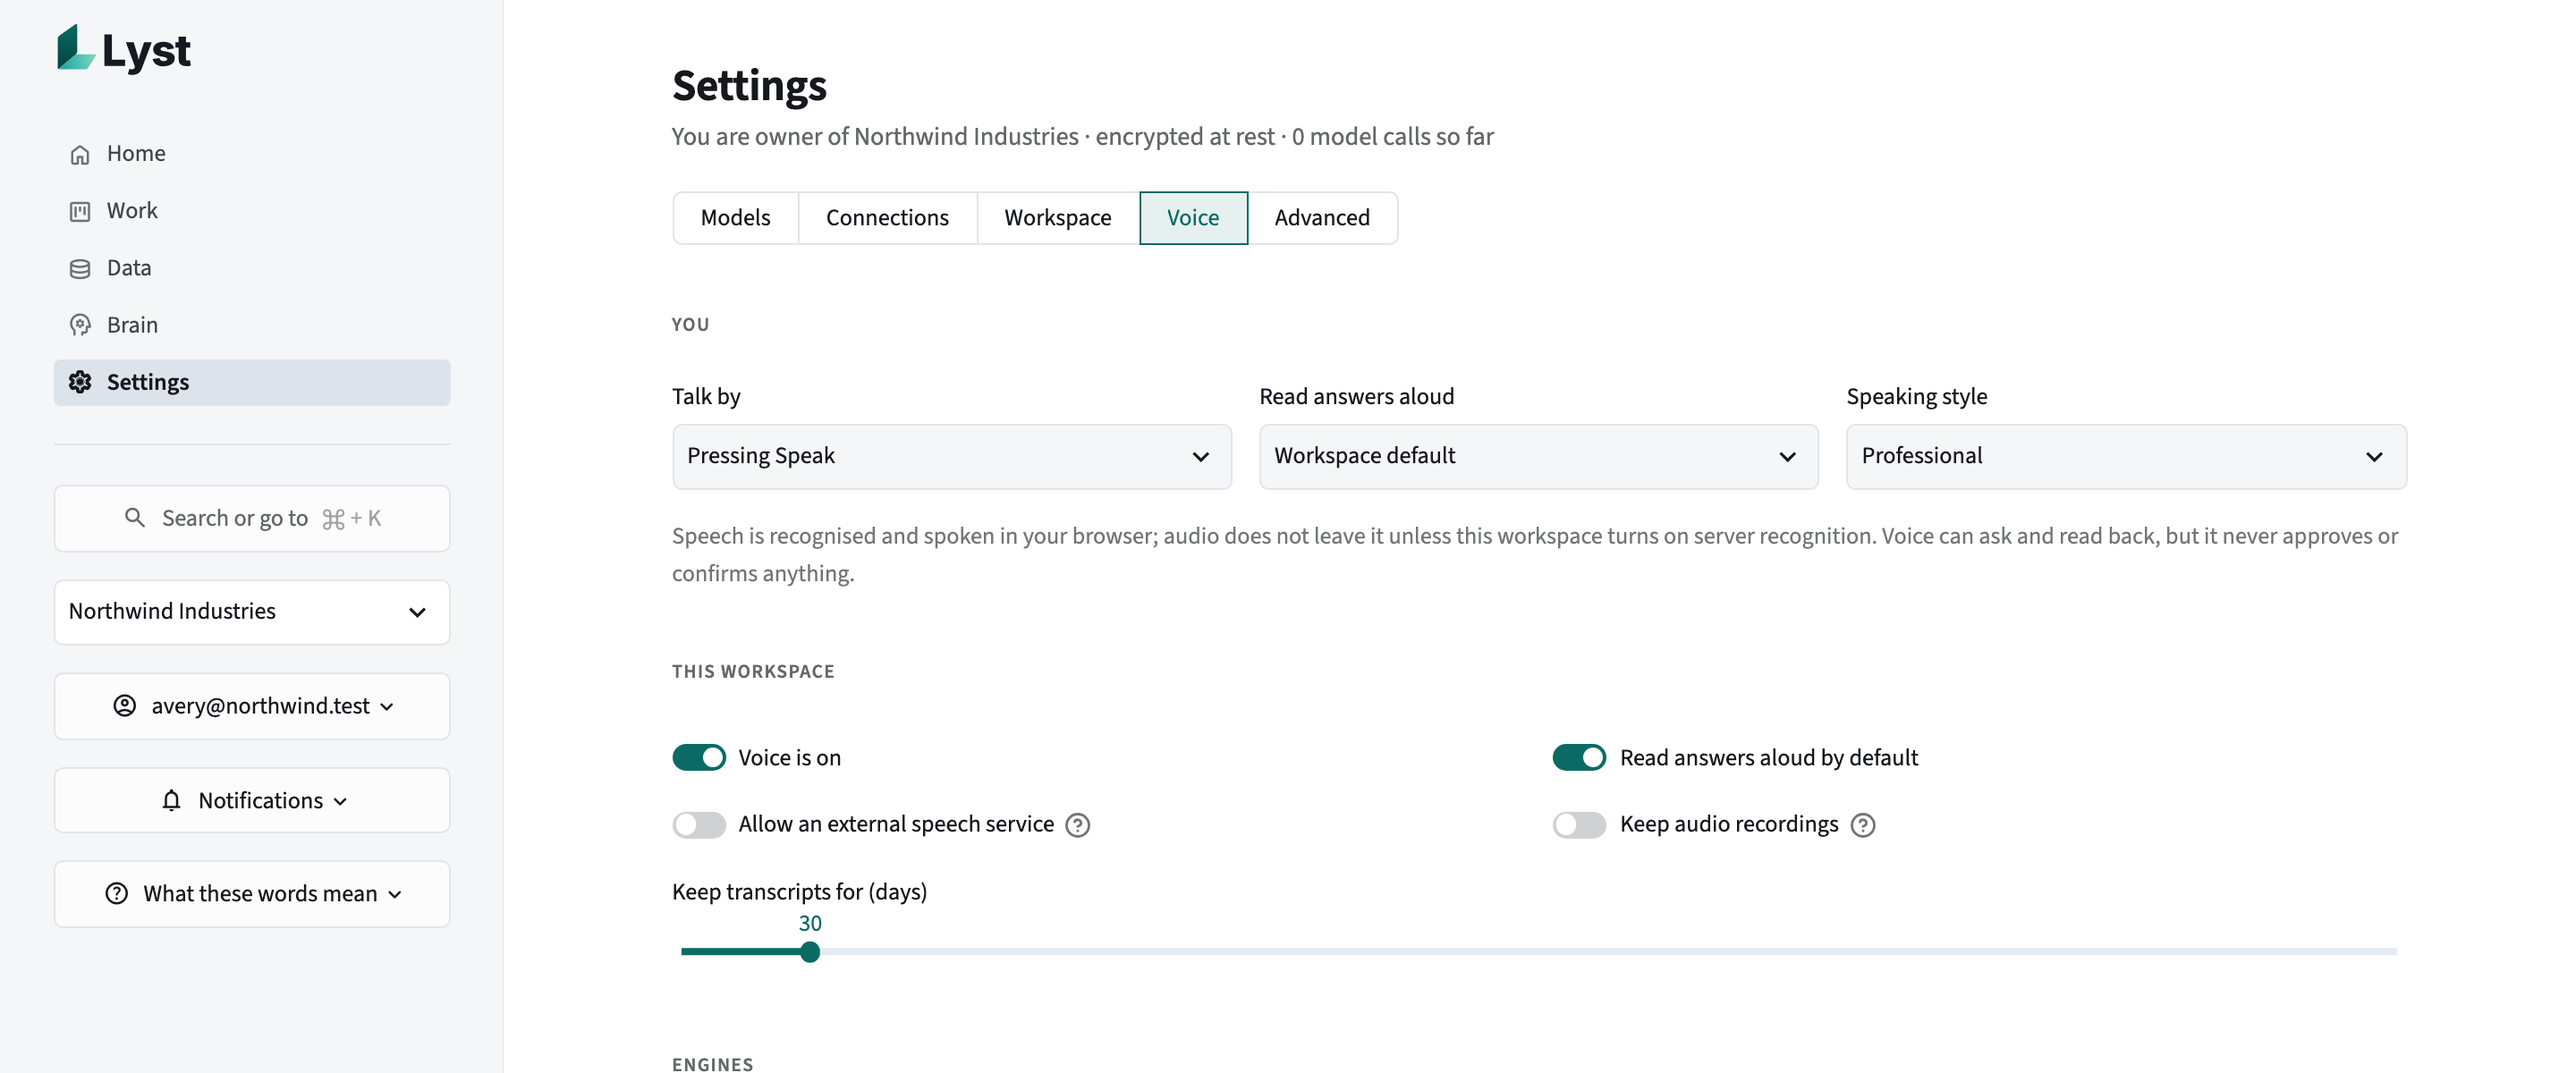
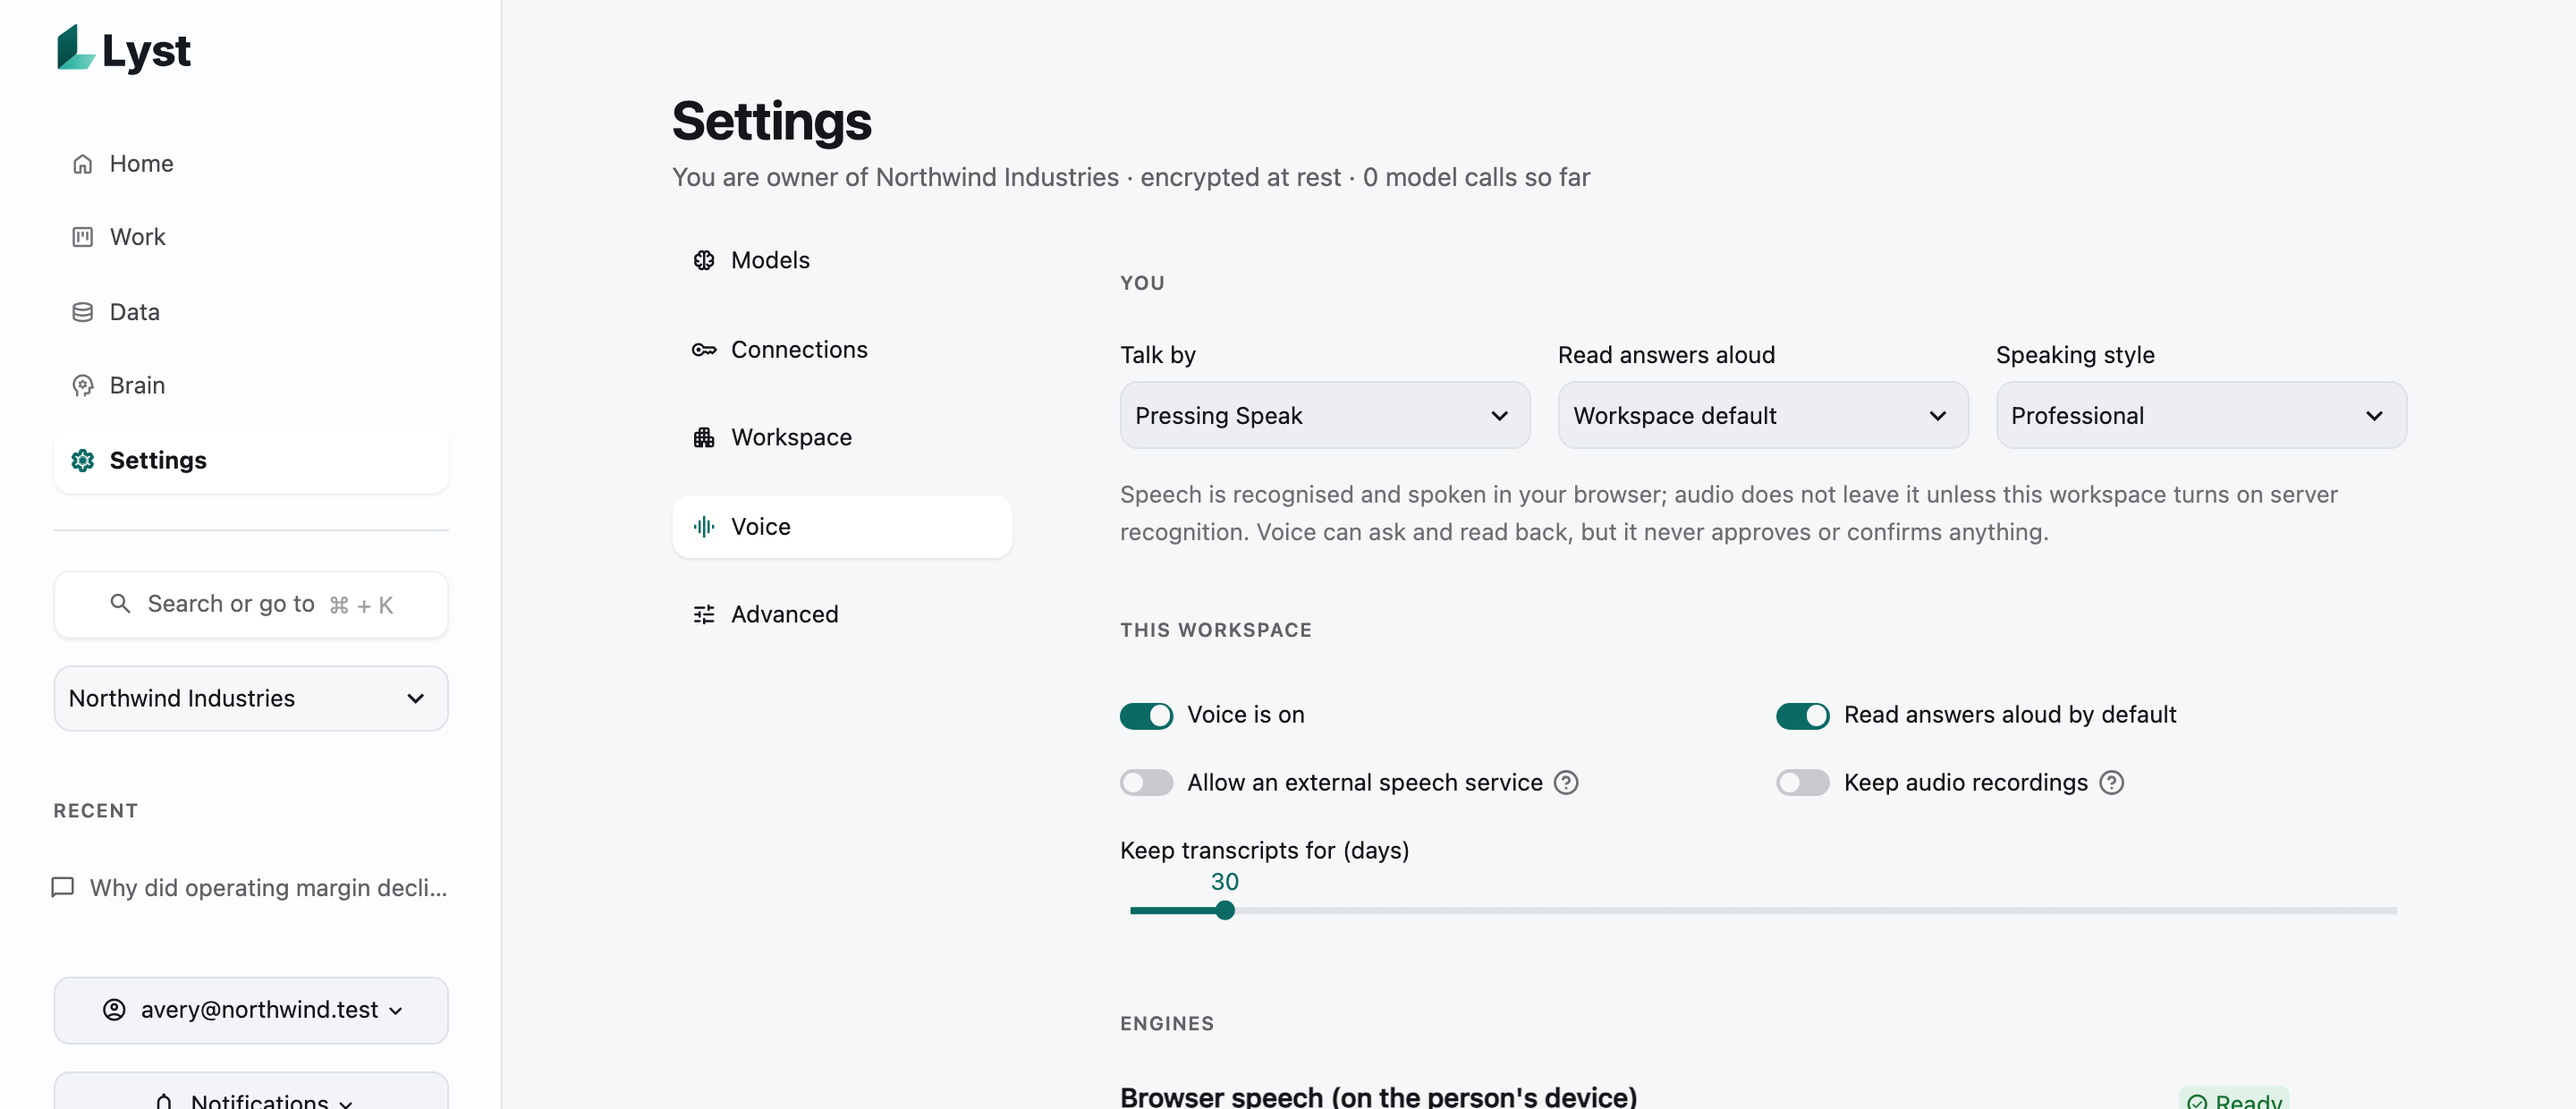
README: the reinvented UI and #91-#94, #96, #98, #99
Retakes every main screenshot on the new visual language (Home, answer canvas
light and dark, Brief, Work command center, Data, Brain, ⌘K, Settings › Voice,
proposed connection) and adds Brain › Specializations, the Python workbench and
the working-ahead report. Describes voice through the shared Analyst, applied
specialist checks, follow-ups and skill reuse, and sealed workspace packs.
Quick start left for the start-up thread.

diff --git a/README.md b/README.md
@@ -48,19 +48,21 @@ understanding and wording, never the numbers.
 
 ## A tour of the interface
 
-One navigation with five areas and one design system behind every screen: a single set of tokens for type,
-spacing, motion and colour drives Streamlit's widgets, Lyst's own components and every chart, in light and dark,
-with reduced motion honoured. Every screen is checked by an automated render with WCAG 2.2 AA accessibility
-scanning, and text and status colours meet 4.5:1 contrast in both themes. The sidebar holds **Search or go to**
-(⌘K), notifications, and a "What these words mean" glossary.
+One navigation with five areas, and one visual language behind every screen: a calm canvas with raised, softly lit
+surfaces, a translucent sidebar, dialogs that rise as sheets, native-style segmented controls and buttons, the
+system typeface, and motion that respects reduced-motion settings, in light and dark. A single set of design
+tokens drives Streamlit's widgets, Lyst's own components and every chart, every screen is checked by an automated
+render with WCAG 2.2 AA accessibility scanning, and text and status colours meet 4.5:1 contrast in both themes.
+The sidebar holds **Search or go to** (⌘K), your four most recent questions with their live status, notifications,
+and a "What these words mean" glossary.
 
 | Area | What you do there |
 |---|---|
 | **Home** | Ask in plain words, follow live progress, and read the answer. A Get started card follows the workspace's real set-up state and shows the top suggestions from your data to accept or dismiss, and "This month at a glance" shows a tile per approved metric with a one-click **Why?** |
-| **Work** | What needs you (approvals), what Lyst is doing and finished, and what runs on its own: watched metrics, scheduled questions and what Lyst noticed |
-| **Data** | Every dataset is a card with its size, freshness, the shape of its columns and the live trend of the measure it feeds; open one for a profile of every column. Sources, dashboards, saved analyses, and a SQL workspace with the schema beside the editor, results kept while you explore, and a first chart drawn for you. **Add data** uploads a file, connects a source, or proposes connections from an API description |
-| **Brain** | What Lyst knows about the business: every approved metric with its latest value, whether the change is good or bad, its twelve-month trend, and a lineage view from source file to dataset to definition; business terms, documents it can cite, and what it remembers and how far to trust it |
-| **Settings** | Models (level and costs), Connections (keys and sources), Workspace (members, autonomy, data policy, webhooks, audit trail), Voice, and Advanced (skills, capabilities, evaluation runs) |
+| **Work** | A command center: a live status strip, then what needs you (approvals), what Lyst is doing and finished as a day-by-day timeline or a board, and what runs on its own: watched metrics, scheduled questions and what Lyst noticed. Each task's steps show as a timeline from the engine |
+| **Data** | Every dataset is a card with its size, freshness, the shape of its columns and the live trend of the measure it feeds; open one for a profile of every column. Sources, dashboards, saved analyses, and a SQL workspace with the schema beside the editor, results kept while you explore, a first chart drawn for you, and a sandboxed **Python** tab. **Add data** uploads a file, connects a source, or proposes connections from an API description |
+| **Brain** | What Lyst knows about the business: every approved metric with its latest value, whether the change is good or bad, its twelve-month trend, and a lineage view from source file to dataset to definition; business terms, documents it can cite, what it remembers and how far to trust it, and **Specializations**: a searchable catalog of the 136 kinds of analyst work with each one's honest maturity |
+| **Settings** | A native two-pane screen with grouped settings: Models (level and costs), Connections (keys and sources), Workspace (members, autonomy, data policy, webhooks, audit trail), Voice, and Advanced (skills, capabilities, evaluation runs, and how working ahead went) |
 
 <p align="center">
   <img src="docs/images/home.png" alt="Home: the ask box with Speak, the Get started card with its set-up steps, and the first metric tiles" width="80%">
@@ -78,9 +80,11 @@ Breakdown answers show their split as a chart.
 
 ### Every answer: Summary, Detail, Method, and a Brief
 
-Answers open at **Summary**: the answer, a one-line trust statement ("All 9 checks passed"), the evidence, a
-chart, what it means and what to do. **Detail** adds tables, hypotheses, assumptions and sources. **Method** adds
-the plan, every check and every query. **Brief** opens the two-line version with one chart, what to do and the PDF
+Answers open as a canvas: the answer beside an **evidence rail** showing which checks passed, the data and version
+it came from, the expertise applied and the assumptions made, with **Focus** to give the answer the whole width.
+It opens at **Summary**: the answer, a one-line trust statement ("All 9 checks passed"), the evidence, a chart,
+what it means and what to do. **Detail** adds tables, hypotheses, assumptions and sources. **Method** adds the
+plan, every check and every query. **Brief** opens the two-line version with one chart, what to do and the PDF
 briefing, ready to forward; executive requests lead with it. Limitations stay visible at every depth.
 
 Under each answer you can act on it: **Watch this metric** sets up a monitor, **Repeat it** reruns the saved
@@ -270,25 +274,30 @@ where they point, with Mark all read and "What to tell me about".
   136 specialization profiles in 11 domains (data and BI, statistics, AI and ML, software, cloud, security,
   finance and operations, marketing, media, science and industry, and more), backed by a shared library of 34
   method families and 36 verification rules. A router picks the disciplines with its reasons, never grants a
-  permission a person lacks, and reports methods Lyst does not have yet. Text, voice and other channels share one
-  entry point. Maturity is computed and stated honestly: 101 profiles are Equipped, 35 Defined, and none is yet
-  claimed Operational. Through the API today ([docs/SPECIALIZATIONS.md](docs/SPECIALIZATIONS.md)).
+  permission a person lacks, and reports methods Lyst does not have yet. Maturity is computed and stated honestly:
+  101 profiles are Equipped, 35 Defined, and none is yet claimed Operational. Typed and spoken questions go
+  through the same entry point and pick the same expertise. When a question is routed to specialists, their
+  discipline's checks apply and can only tighten verification; the answer reports each as passed, failed or not
+  applicable, and says which cannot yet be run automatically. Brain › **Specializations** lists all 136 with their
+  maturity and what each still lacks, and example questions can be asked in one click
+  ([docs/SPECIALIZATIONS.md](docs/SPECIALIZATIONS.md)).
 * **A workbench for your own Python and SQL.** Analysts run their own Python on governed data in an
   operating-system sandbox, on data already filtered by their column and row permissions. The code cannot read
   Lyst's databases, keys or home folders and has no network access. Every run records its code, inputs, data
   versions and software environment, so it can be reproduced and compared, and a result table can be saved as a
-  dataset with its lineage. On macOS the sandbox is verified by tests; on Linux it uses bubblewrap. Through the
-  API today ([docs/EXTENSIBILITY.md](docs/EXTENSIBILITY.md)).
+  dataset with its lineage. On macOS the sandbox is verified by tests; on Linux it uses bubblewrap. It lives in
+  Data › SQL › **Python** ([docs/EXTENSIBILITY.md](docs/EXTENSIBILITY.md)).
 * **Voice.** Ask a question out loud and hear the verified answer read back, with the full result on screen. A
-  spoken question runs as you, through the same permissions, data policy and budgets as a typed one. Voice cannot
-  approve, delete, send or export anything; those go to the screen to confirm, and saying "stop" stops Lyst
-  talking without stopping the analysis. Audio is not kept unless an administrator turns that on, and transcripts
-  are redacted. Speech uses the browser by default; OpenRouter speech-to-text and text-to-speech are available
-  once an admin allows external audio, and an NVIDIA PersonaPlex server on your own GPU can add full-duplex
-  conversation (Lyst never bundles its weights, and that path has not yet been verified on real hardware). On
-  screen: **Speak** beside the ask box (push-to-talk or hands-free, using the browser's own speech, and talking
-  over Lyst stops it), and Settings › **Voice** for your mode, reading aloud and speaking style, the workspace's
-  rules, and every engine with its honest support label ([docs/VOICE.md](docs/VOICE.md)).
+  spoken question goes through the same Analyst as a typed one, picks the same expertise and runs as you, through
+  the same permissions, data policy and budgets as a typed one. Voice cannot approve, delete, send or export
+  anything; those go to the screen to confirm, and saying "stop" stops Lyst talking without stopping the analysis.
+  Audio is not kept unless an administrator turns that on, and transcripts are redacted. Speech uses the browser
+  by default; OpenRouter speech-to-text and text-to-speech are available once an admin allows external audio, and
+  an NVIDIA PersonaPlex server on your own GPU can add full-duplex conversation (Lyst never bundles its weights,
+  and that path has not yet been verified on real hardware). On screen: **Speak** beside the ask box (push-to-talk
+  or hands-free, using the browser's own speech, and talking over Lyst stops it; when recognition is not
+  confident, Lyst asks "I heard … Ask this?"), and Settings › **Voice** for your mode, reading aloud and speaking
+  style, the workspace's rules, and every engine with its honest support label ([docs/VOICE.md](docs/VOICE.md)).
 * **Answers and investigations.** Values with prior-period and year-ago comparisons, breakdowns, trends,
   anomalies, forecasts with backtests, "why" questions with exact rate and mix attribution, deep investigations
   that decide between competing hypotheses by computation, staffing scenarios under uncertainty, and event
@@ -346,6 +355,17 @@ where they point, with Mark all read and "What to tell me about".
   (a verified task, an existing report, a current dashboard), by hand with a note, or waived by an admin with a
   reason. A project cannot complete while a must-have is open. Revisions keep the work that is still valid, flag
   changed requirements with their old wording, record dropped ones, and keep every version readable.
+* **Follows up and reuses what works.** A follow-up such as "now by region", "compare it to last year" or "what
+  about Q1 2026" is resolved against the earlier answer's verified understanding, and the new answer records what
+  changed and what was carried over, so re-asking reproduces it. A follow-up Lyst cannot carry out says so rather
+  than changing numbers silently. Before drafting a new method, Lyst ranks the approved skills and built-in
+  capabilities by what they do, checks each is still compatible and permitted, and reuses the best one. Through
+  the API today.
+* **Moves a whole workspace in one sealed file.** Datasets and their versions, definitions, knowledge, dashboards
+  and reports, members and history travel in one file encrypted with a passphrase; any tampering or truncation is
+  caught before anything is read. Credentials never travel, and data your policy keeps inside the workspace cannot
+  be exported this way either. Importing always creates a new workspace, checks every part first, and arrives with
+  its schedules paused, so a copy never runs the same work twice. Through the API today.
 * **Runs work durably.** Leases, checkpoints and resume after a crash; parallel steps; pause, cancel, retry and
   budgets; approval-gated schedules and monitors with an inbox and webhooks.
 * **Prepares recurring work before it runs.** Shortly before a scheduled review, Lyst checks as the schedule's
@@ -376,7 +396,10 @@ where they point, with Mark all read and "What to tell me about".
   valuable item first. In Data, a source Lyst foresees trouble for shows **At risk** or **Keep an eye on it**,
   with the fix one click away. Lyst learns from outcomes (accepted, useful, dismissed, wrong) which kinds of item
   to rank higher, reports its own relevance, timeliness and accuracy, runs fully offline when external services
-  are not allowed, and notices methods that upcoming work needs but no approved skill covers
+  are not allowed, and notices methods that upcoming work needs but no approved skill covers. Settings › Advanced
+  shows how working ahead went over the last 30 days, measured from what actually happened: how much people found
+  useful, what was prepared on time, confirmed warnings against false alarms, runs fixed before they failed, and
+  interruptions, plus methods Lyst could add, each with **Ask to add it**
   ([docs/ANTICIPATION.md](docs/ANTICIPATION.md)).
 * **Runs fairly at scale.** People's questions go ahead of background work, which never takes the last worker,
   and busy workspaces cannot crowd out quiet ones. Admins set per-workspace quotas: running and queued tasks (a
@@ -449,6 +472,13 @@ where they point, with Mark all read and "What to tell me about".
   <tr>
     <td width="50%"><img src="docs/images/settings-voice.png" alt="Settings, Voice: talk by pressing Speak, read answers aloud, speaking style, the workspace's voice rules, and each speech engine with its support label"><br><b>Settings › Voice</b>: your mode, the workspace's rules, honest engine labels</td>
     <td width="50%"><img src="docs/images/proposed-connection.png" alt="A proposed connection for /purchase-orders: why Lyst proposes it this way, its fields, the incremental column, and a dry test"><br><b>Proposed connection</b>: drafted from an API description, tested dry</td>
+  </tr>
+  <tr>
+    <td width="50%"><img src="docs/images/specializations.png" alt="Brain, Specializations: 136 kinds of analyst work, searchable, each with its maturity (Equipped or Defined)"><br><b>Brain › Specializations</b>: 136 profiles, honest maturity</td>
+    <td width="50%"><img src="docs/images/workbench.png" alt="Data, SQL, Python: a sandboxed run of df.describe() over the pnl dataset, 396 rows, with its result table"><br><b>Python workbench</b>: sandboxed, recorded, reproducible</td>
+  </tr>
+  <tr>
+    <td colspan="2" align="center"><img src="docs/images/working-ahead.png" alt="Settings, Advanced: how working ahead went over the last 30 days, measured from records" width="70%"><br><b>Working ahead, last 30 days</b>: measured from what actually happened</td>
   </tr>
 </table>
 
